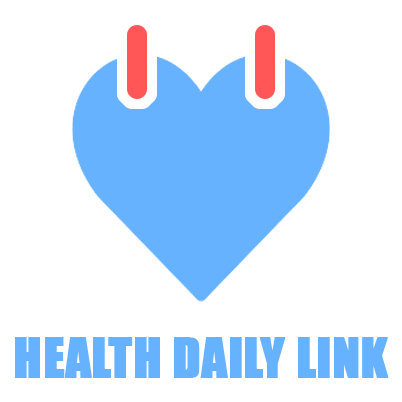
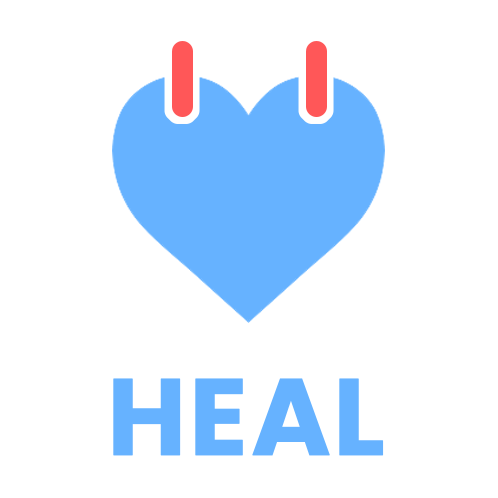
Update HDL => HEAL

diff --git a/src/sections/Tail/HDL.tsx b/src/sections/Tail/HDL.tsx
@@ -2,7 +2,7 @@ import PageSection from "@/components/PageSection";
 
 const HdlSection = () => {
   const list = [
-    "لجعل رحلتك الصحية أكثر سهولة وفعالية، أوصي باستخدام أداة HDL المجانية, التي تتيح لك تتبع جميع عاداتك الصحية.",
+    "لجعل رحلتك الصحية أكثر سهولة وفعالية، أوصي باستخدام أداة HEAL المجانية, التي تتيح لك تتبع جميع عاداتك الصحية.",
     "الأداة متوفرة حاليًا باللغة الإنجليزية، وستطلق قريبًا نسخة باللغة العربية لتلبية احتياجات جميع عملائنا.",
     "هذا الأداة تم تطويرها من قِبل نفس مطور هذا الموقع الإلكتروني, لضمان توافقها مع أعلى معايير الجودة.",
   ];
@@ -30,7 +30,10 @@ const HdlSection = () => {
       </div>
 
       <div className="col-xl-12 px-3 order-1 order-xl-2 text-center">
-        <a href="https://health-daily-link.vercel.app/" target="_blank">
+        <a
+          href="https://health-empowerment-lifestyle.vercel.app/"
+          target="_blank"
+        >
           {" "}
           <button className="btn btn-dark text-white">استخدمها الآن</button>
         </a>
